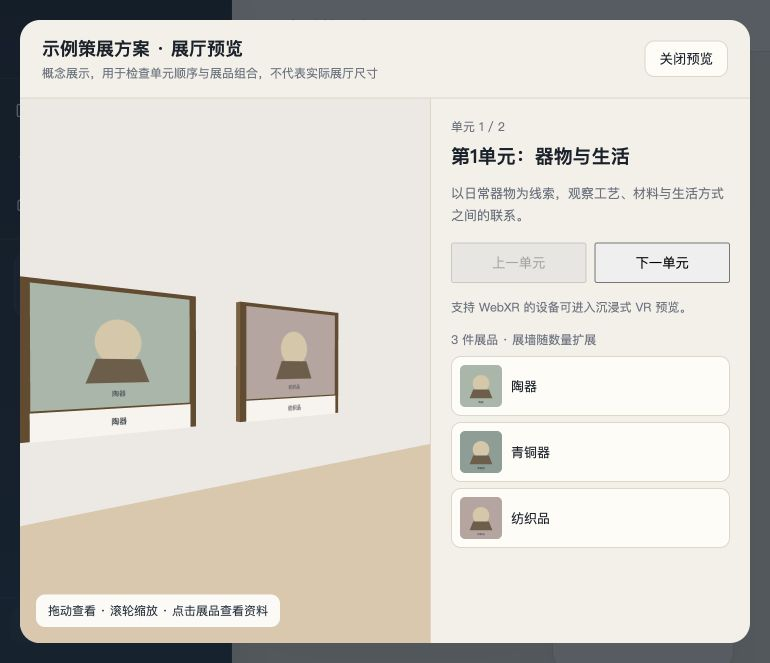
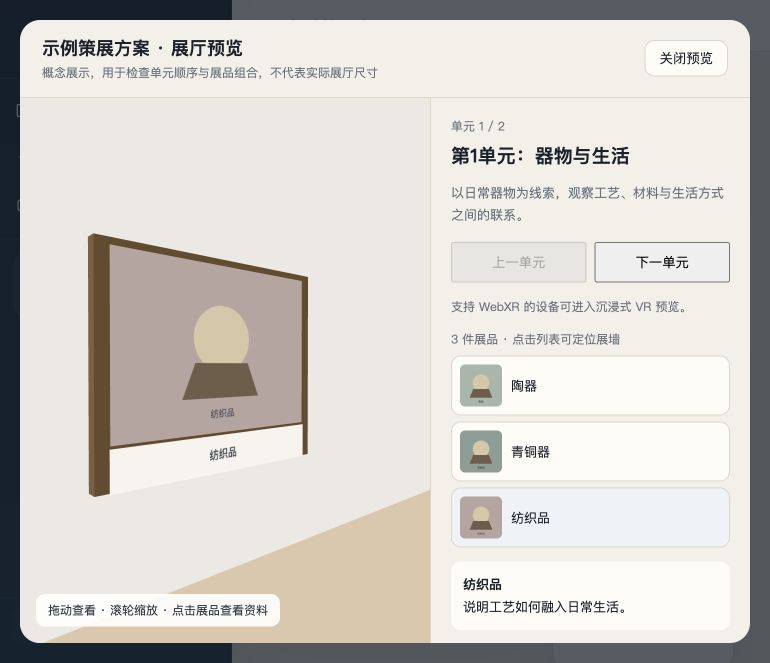
Focus selected exhibit in gallery preview

diff --git a/src/components/GalleryPreview.jsx b/src/components/GalleryPreview.jsx
@@ -76,6 +76,7 @@ function makePanel(scene, exhibit, x, z, side, selectable, loader) {
 export function GalleryPreview({ title, sections, onClose, theme }) {
   const canvasHost = useRef(null);
   const vrHost = useRef(null);
+  const focusExhibit = useRef(null);
   const [unitIndex, setUnitIndex] = useState(0);
   const [selectedExhibit, setSelectedExhibit] = useState(null);
   const [vrSupported, setVrSupported] = useState(false);
@@ -154,6 +155,13 @@ export function GalleryPreview({ title, sections, onClose, theme }) {
       const z = depth / 2 - 4 - Math.floor(index / 2) * 3.7;
       makePanel(scene, exhibit, side === 'left' ? -4.91 : 4.91, z, side, selectable, loader);
     });
+    focusExhibit.current = (index) => {
+      const side = index % 2 === 0 ? -1 : 1;
+      const z = depth / 2 - 4 - Math.floor(index / 2) * 3.7;
+      camera.position.set(side * 1.4, 2.25, z + 2.8);
+      controls.target.set(side * 4.8, 2.2, z);
+      controls.update();
+    };
 
     const pointer = new THREE.Vector2();
     const raycaster = new THREE.Raycaster();
@@ -206,6 +214,7 @@ export function GalleryPreview({ title, sections, onClose, theme }) {
       renderer.dispose();
       renderer.domElement.remove();
       vrHost.current?.replaceChildren();
+      focusExhibit.current = null;
     };
   }, [unit, vrSupported]);
 
@@ -238,9 +247,9 @@ export function GalleryPreview({ title, sections, onClose, theme }) {
                 <button type="button" disabled={unitIndex >= units.length - 1} onClick={() => setUnitIndex(unitIndex + 1)} style={{ flex: 1, padding: 9, cursor: 'pointer' }}>下一单元</button>
               </div>
               {vrSupported ? <div ref={vrHost} style={{ marginBottom: 16 }} /> : <div style={{ fontSize: 12, color: theme.textSecondary, marginBottom: 16 }}>支持 WebXR 的设备可进入沉浸式 VR 预览。</div>}
-              <div style={{ fontSize: 12, color: theme.textSecondary, marginBottom: 8 }}>{(unit.exhibits || []).length} 件展品 · 展墙随数量扩展</div>
+              <div style={{ fontSize: 12, color: theme.textSecondary, marginBottom: 8 }}>{(unit.exhibits || []).length} 件展品 · 点击列表可定位展墙</div>
               {(unit.exhibits || []).map((exhibit, index) => (
-                <button key={`${getExhibitName(exhibit)}-${index}`} type="button" onClick={() => setSelectedExhibit(exhibit)} style={{ width: '100%', display: 'flex', textAlign: 'left', gap: 9, padding: 8, marginBottom: 6, background: selectedExhibit === exhibit ? theme.aiGenerated : theme.bgSecondary, border: `1px solid ${theme.border}`, borderRadius: 10, color: textColor, cursor: 'pointer' }}>
+                <button key={`${getExhibitName(exhibit)}-${index}`} type="button" onClick={() => { setSelectedExhibit(exhibit); focusExhibit.current?.(index); }} style={{ width: '100%', display: 'flex', textAlign: 'left', gap: 9, padding: 8, marginBottom: 6, background: selectedExhibit === exhibit ? theme.aiGenerated : theme.bgSecondary, border: `1px solid ${theme.border}`, borderRadius: 10, color: textColor, cursor: 'pointer' }}>
                   {getExhibitFullImageUrl(exhibit) && <img src={getExhibitFullImageUrl(exhibit)} alt="" style={{ width: 42, height: 42, borderRadius: 5, objectFit: 'cover' }} />}
                   <span style={{ alignSelf: 'center', fontSize: 13 }}>{getExhibitName(exhibit) || '未命名展品'}</span>
                 </button>
